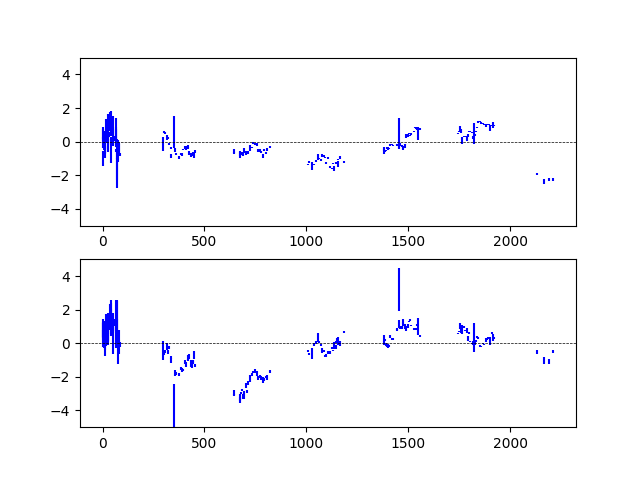
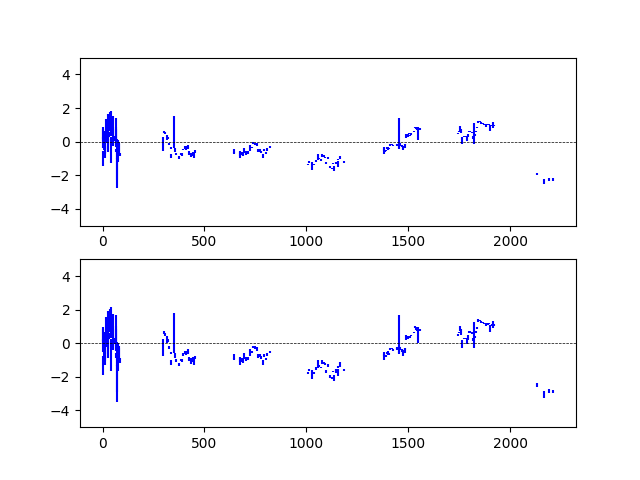
auto commit via batch

diff --git a/LineFit01.py b/LineFit01.py
@@ -59,28 +59,12 @@ def main():
     cont = array_to_lc(np.loadtxt(job_args["cont_url"]))
     line1 = array_to_lc(np.loadtxt(job_args["line1_url"]))
     line2 = array_to_lc(np.loadtxt(job_args["line2_url"]))
+
+
     lcs_unbanded = [cont, line1, line2]
-    lcs_unbanded = data_tform(lcs_unbanded,normalize_tform(lcs_unbanded))
-    lcs_banded = lc_to_banded(lcs_unbanded)
-
-
-    for url in [job_args["cont_url"], job_args["line1_url"], job_args["line2_url"]]:
-        data=np.loadtxt(url)
-        
-        w = data[:,2]**-2
-        wsum = np.sum(w)
-
-        mean = np.sum(data[:,1] * w) / wsum
-        std  = np.sqrt( np.sum((data[:,1]-mean)**2 * w) / wsum)
-        
-        lcs_unbanded.append({
-            "T": data[:,0],
-            "Y": ( data[:,1]-mean ) / std,
-            "E": data[:,2] / std ,
-        })
 
     banded_data = lc_to_banded(lcs_unbanded)
-    banded_data['T']-=np.min(banded_data['T'])
+    banded_data = data_tform(banded_data, normalize_tform(banded_data))
 
     #Save data output to be safe
     out, out_keys = flatten_dict(banded_data)
